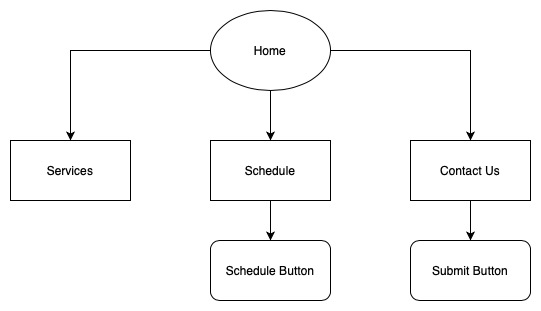
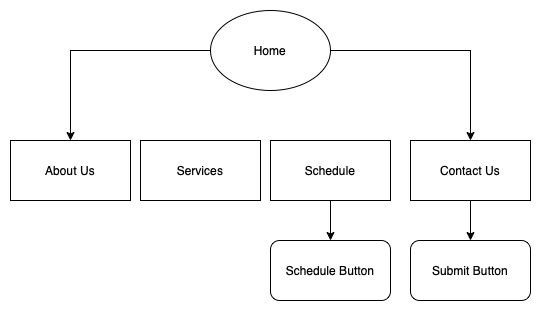
Updated project design

diff --git a/itis3135/project_rand.html b/itis3135/project_rand.html
@@ -39,8 +39,9 @@
                 <li>My application is a running webpage for my aunt's court reporting business.</li>
                 <li>The inteneded users of this site are my aunt, her employees, and potential clients of her company
                 </li>
-                <li>The website will include four pages. These pages will include a landing page giving an overview of
-                    the business and individual pages detailing services provided, a scheduling form, and a contact us
+                <li>The website will include five pages. These pages will include a landing page giving an overview of
+                    the business and individual pages detailing about the company, services provided, a scheduling form,
+                    and a contact us
                     page. </li>
             </ul>
             <li>Client Information</li>
@@ -57,9 +58,22 @@
             <li>Page Design</li>
             <ol>
                 <li><strong>Home</strong></li>
-                <li>Landing page for general information about the company, serivces, contact info, and founder.</li>
+                <li>Landing page for general information about the company, serivces, contact info</li>
                 <li>Clients/Potential Clients</li>
-                <li>Information about the company, services, and founder</li>
+                <li>Information about the company and services</li>
+                <li>No</li>
+                <li>N/A</li>
+                <li>No</li>
+                <li>Navigation to other pages.</li>
+                <li>N/A</li>
+            </ol>
+            <br>
+            <ol>
+                <li><strong>About Us</strong></li>
+                <li>To provide information about the company's history, such as the mission statement and founder's
+                    background.</li>
+                <li>Clients/Potential Clients</li>
+                <li>Background and history of the company</li>
                 <li>No</li>
                 <li>N/A</li>
                 <li>No</li>
